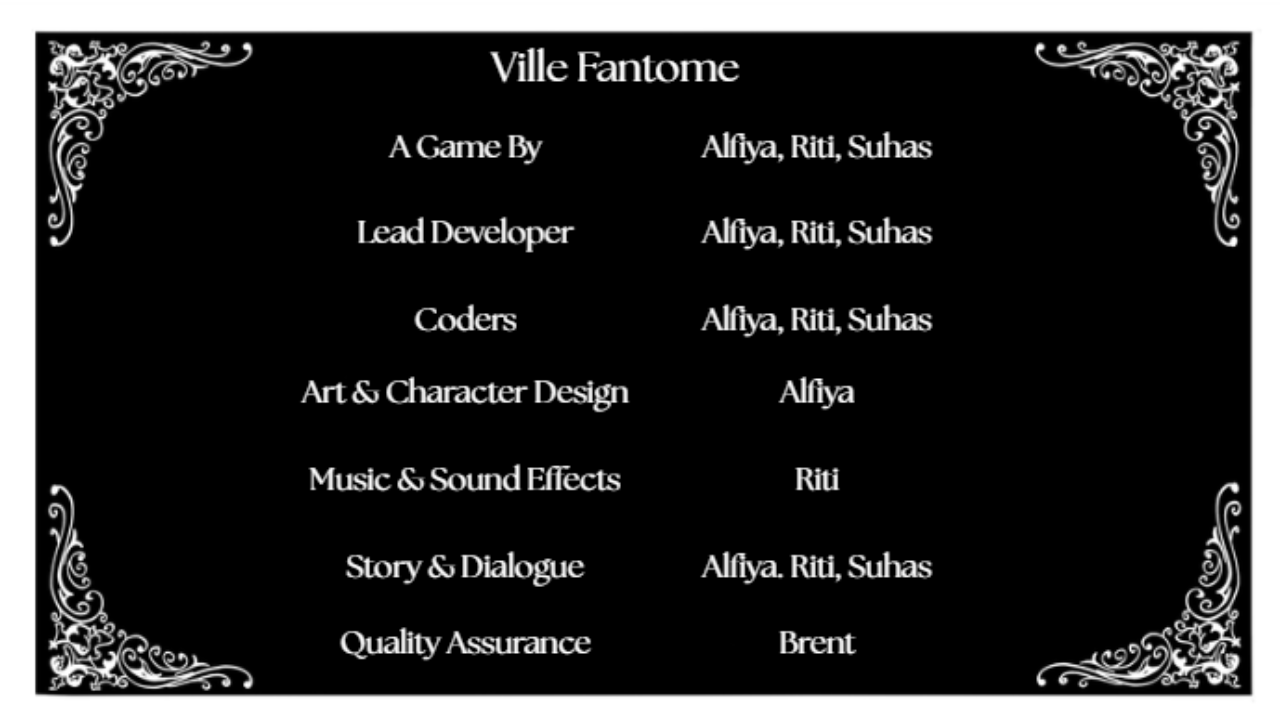
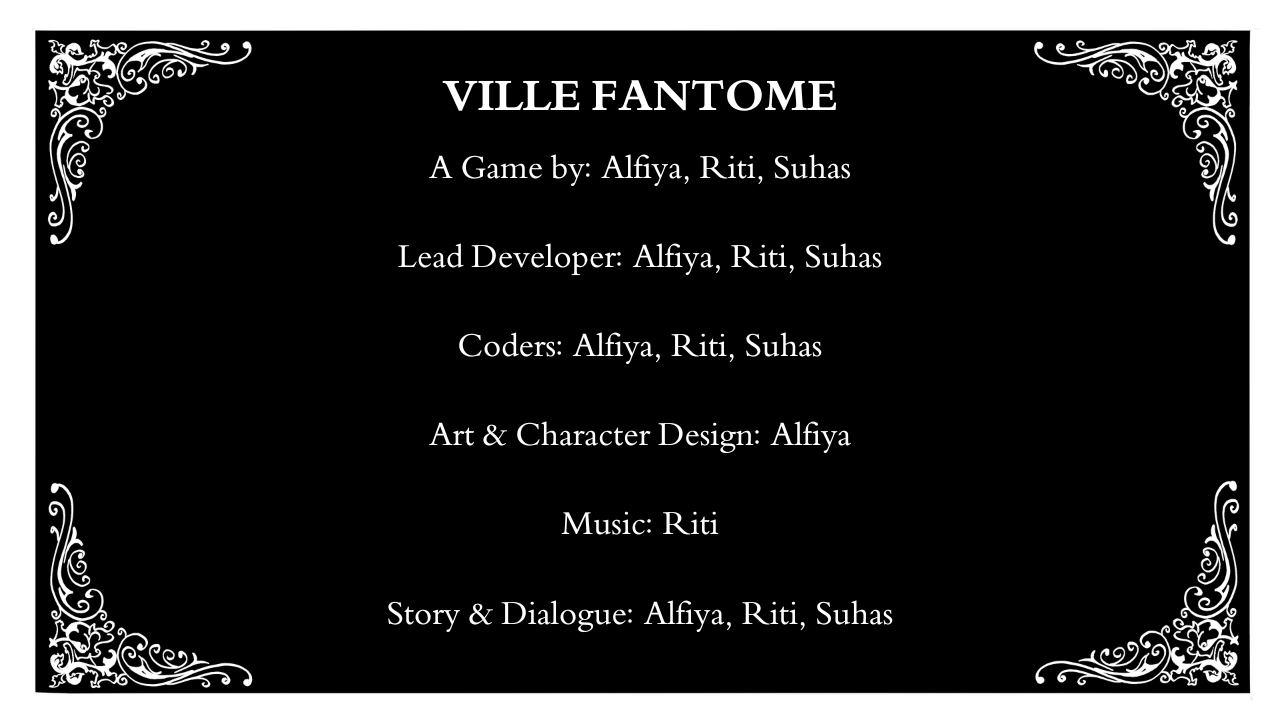
added endscreen

diff --git a/core/src/main/java/apcs/VilleFantome/Mansion.java b/core/src/main/java/apcs/VilleFantome/Mansion.java
@@ -30,17 +30,26 @@ public class Mansion implements Screen {
     private Texture pickupPrompt, evidenceTex1, evidenceTex2;
     private ImageButton resumeButton, quitButton;
 
+    // 1 intro dialogue on entering Room 1
+    private DialogueManager introDialogue;
+
+    // 1 dialogue after Evidence 1
     private DialogueManager postEvidence1Dialogue;
+
+    // 1 dialogue after Evidence 2
     private DialogueManager postEvidence2Dialogue;
+
+    // 2 chained dialogues in Room 3
     private DialogueManager room3Dialogue1;
     private DialogueManager room3Dialogue2;
-    private DialogueManager room3Dialogue3;
+
     private DialogueManager activeDialogue = null;
 
     private Rectangle playerBounds, itemHitbox1, itemHitbox2;
     private boolean showPickupPrompt = false;
     private boolean item1PickedUp = false;
     private boolean item2PickedUp = false;
+    private boolean introDialoguePlayed = false;
     private boolean room3DialoguePlayed = false;
     private int evidenceToShow = 0;
 
@@ -90,11 +99,9 @@ public class Mansion implements Screen {
         itemHitbox1 = new Rectangle(400, 0, 150, 720);
         itemHitbox2 = new Rectangle(400, 0, 150, 720);
 
-        // DIALOGUES 1 & 2 — after evidence 1
-        postEvidence1Dialogue = new DialogueManager(
-            new String[] {
-                "MansionDialogue4.png"
-            },
+        // Dialogue 1 — plays immediately on entering Room 1
+        introDialogue = new DialogueManager(
+            new String[] { "MansionDialogue1.png" },
             new float[] { 0f },
             () -> {
                 activeDialogue = null;
@@ -102,39 +109,51 @@ public class Mansion implements Screen {
             }
         );
 
-        // DIALOGUES 3 & 4 — after evidence 2
-        postEvidence2Dialogue = new DialogueManager(
-            new String[] {
-                "FinalDialogue1.png"
-            },
-            new float[] { 0f, 0f },
+        // Dialogue 2 — plays after picking up Evidence 1
+        postEvidence1Dialogue = new DialogueManager(
+            new String[] { "MansionDialogue4.png" },
+            new float[] { 0f },
             () -> {
                 activeDialogue = null;
                 state = State.RUNNING;
             }
         );
 
-        // DIALOGUE 5 — first of room 3 sequence, chains into dialogue 6
+        // Dialogue 3 — plays after picking up Evidence 2
+        postEvidence2Dialogue = new DialogueManager(
+            new String[] { "FinalDialogue1.png" },
+            new float[] { 0f },
+            () -> {
+                activeDialogue = null;
+                state = State.RUNNING;
+            }
+        );
+
+        // Dialogue 5 — second in Room 3 chain (declared first so Dialogue 4 can reference it)
+        room3Dialogue2 = new DialogueManager(
+    new String[] { "FinalDialogue3.png" },
+    new float[] { 0f },
+    () -> {
+        activeDialogue = null;
+        state = State.RUNNING;  // <-- remove this line
+        game.setScreen(new EndScreen(game));  // <-- add this line
+    }
+);
+
+        // Dialogue 4 — first in Room 3 chain, chains into room3Dialogue2
         room3Dialogue1 = new DialogueManager(
             new String[] { "FinalDialogue2.png" },
             new float[] { 0f },
             () -> {
-                startDialogue(room3Dialogue1);
-            }
-        );
-
-
-        // DIALOGUE 7 — final
-        room3Dialogue3 = new DialogueManager(
-            new String[] { "FinalDialogue3.png" },
-            new float[] { 0f },
-            () -> {
-                activeDialogue = null;
-                state = State.RUNNING;
+                startDialogue(room3Dialogue2);
             }
         );
 
         setupPauseMenu();
+
+        // Trigger the intro dialogue immediately
+        introDialoguePlayed = true;
+        startDialogue(introDialogue);
     }
 
     private void setupPauseMenu() {
@@ -271,7 +290,6 @@ public class Mansion implements Screen {
             if (player.x > 900) {
                 currentRoom = 3;
                 player.x = -250;
-                // trigger room 3 dialogues only once
                 if (!room3DialoguePlayed) {
                     room3DialoguePlayed = true;
                     startDialogue(room3Dialogue1);
@@ -295,11 +313,23 @@ public class Mansion implements Screen {
 
     @Override
     public void dispose() {
-        batch.dispose(); stage.dispose(); inventory.dispose(); player.dispose();
-        mansion3.dispose(); mansion1.dispose(); mansion2.dispose();
-        pauseBg.dispose(); resumeTex.dispose(); quitTex.dispose();
-        pickupPrompt.dispose(); evidenceTex1.dispose(); evidenceTex2.dispose();
-        postEvidence1Dialogue.dispose(); postEvidence2Dialogue.dispose();
-        room3Dialogue1.dispose(); room3Dialogue2.dispose(); room3Dialogue3.dispose();
+        batch.dispose();
+        stage.dispose();
+        inventory.dispose();
+        player.dispose();
+        mansion3.dispose();
+        mansion1.dispose();
+        mansion2.dispose();
+        pauseBg.dispose();
+        resumeTex.dispose();
+        quitTex.dispose();
+        pickupPrompt.dispose();
+        evidenceTex1.dispose();
+        evidenceTex2.dispose();
+        introDialogue.dispose();
+        postEvidence1Dialogue.dispose();
+        postEvidence2Dialogue.dispose();
+        room3Dialogue1.dispose();
+        room3Dialogue2.dispose();
     }
 }

diff --git a/core/src/main/java/apcs/VilleFantome/EndScreen.java b/core/src/main/java/apcs/VilleFantome/EndScreen.java
@@ -1,0 +1,103 @@
+package apcs.VilleFantome;
+
+import com.badlogic.gdx.Gdx;
+import com.badlogic.gdx.Input;
+import com.badlogic.gdx.Screen;
+import com.badlogic.gdx.graphics.GL20;
+import com.badlogic.gdx.graphics.Texture;
+import com.badlogic.gdx.graphics.g2d.SpriteBatch;
+import com.badlogic.gdx.scenes.scene2d.Stage;
+import com.badlogic.gdx.utils.viewport.FitViewport;
+
+public class EndScreen implements Screen {
+
+    private Main game;
+    private SpriteBatch batch;
+    private Stage stage;
+
+    private float slideTimer = 0f;
+    private static final float FLASH_DURATION = 0.15f;  // how fast End_Screen (1) flashes
+    private static final float HOLD_DURATION  = 3.0f;   // how long End_Screen stays up
+
+    private Texture endScreen1;   // End_Screen (1).png  — shown first
+    private Texture endScreen2;   // End_Screen.png      — shown second
+    private Texture credits;      // creditscene.png     — shown third / last
+
+    private int currentSlide = 0; // 0, 1, 2
+    private boolean keyHeld = false;
+
+    public EndScreen(Main game) {
+        this.game = game;
+    }
+
+    @Override
+    public void show() {
+        batch = new SpriteBatch();
+        stage = new Stage(new FitViewport(1280, 720));
+
+        endScreen1 = new Texture("End_Screen (1).png");
+        endScreen2 = new Texture("End_Screen.png");
+        credits    = new Texture("creditscene.png");
+
+        currentSlide = 0;
+        keyHeld = false;
+
+        Gdx.input.setInputProcessor(null);
+    }
+
+    @Override
+public void render(float delta) {
+    slideTimer += delta;
+
+    // Slide 0: flashes briefly, then auto-advances to slide 1
+    if (currentSlide == 0 && slideTimer >= FLASH_DURATION) {
+        currentSlide = 1;
+        slideTimer = 0f;
+    }
+
+    // Slide 1: stays for HOLD_DURATION, then auto-advances to credits
+    if (currentSlide == 1 && slideTimer >= HOLD_DURATION) {
+        currentSlide = 2;
+        slideTimer = 0f;
+    }
+
+    // Slide 2 (credits): waits for a key press to go to main menu
+    if (currentSlide == 2) {
+        boolean pressing = Gdx.input.isKeyPressed(Input.Keys.E)
+                        || Gdx.input.isKeyPressed(Input.Keys.ENTER)
+                        || Gdx.input.isKeyPressed(Input.Keys.SPACE);
+        if (pressing && !keyHeld) {
+            keyHeld = true;
+            game.setScreen(new LoadingScreen(game));
+            return;
+        }
+        if (!pressing) keyHeld = false;
+    }
+
+    Gdx.gl.glClearColor(0, 0, 0, 1);
+    Gdx.gl.glClear(GL20.GL_COLOR_BUFFER_BIT);
+
+    batch.setProjectionMatrix(stage.getCamera().combined);
+    batch.begin();
+
+    if      (currentSlide == 0) batch.draw(endScreen1, 0, 0, 1280, 720);
+    else if (currentSlide == 1) batch.draw(endScreen2, 0, 0, 1280, 720);
+    else if (currentSlide == 2) batch.draw(credits,    0, 0, 1280, 720);
+
+    batch.end();
+}
+
+    @Override public void resize(int w, int h) { stage.getViewport().update(w, h, true); }
+    @Override public void hide()   { Gdx.input.setInputProcessor(null); }
+    @Override public void pause()  {}
+    @Override public void resume() {}
+
+    @Override
+    public void dispose() {
+        batch.dispose();
+        stage.dispose();
+        endScreen1.dispose();
+        endScreen2.dispose();
+        credits.dispose();
+    }
+}
